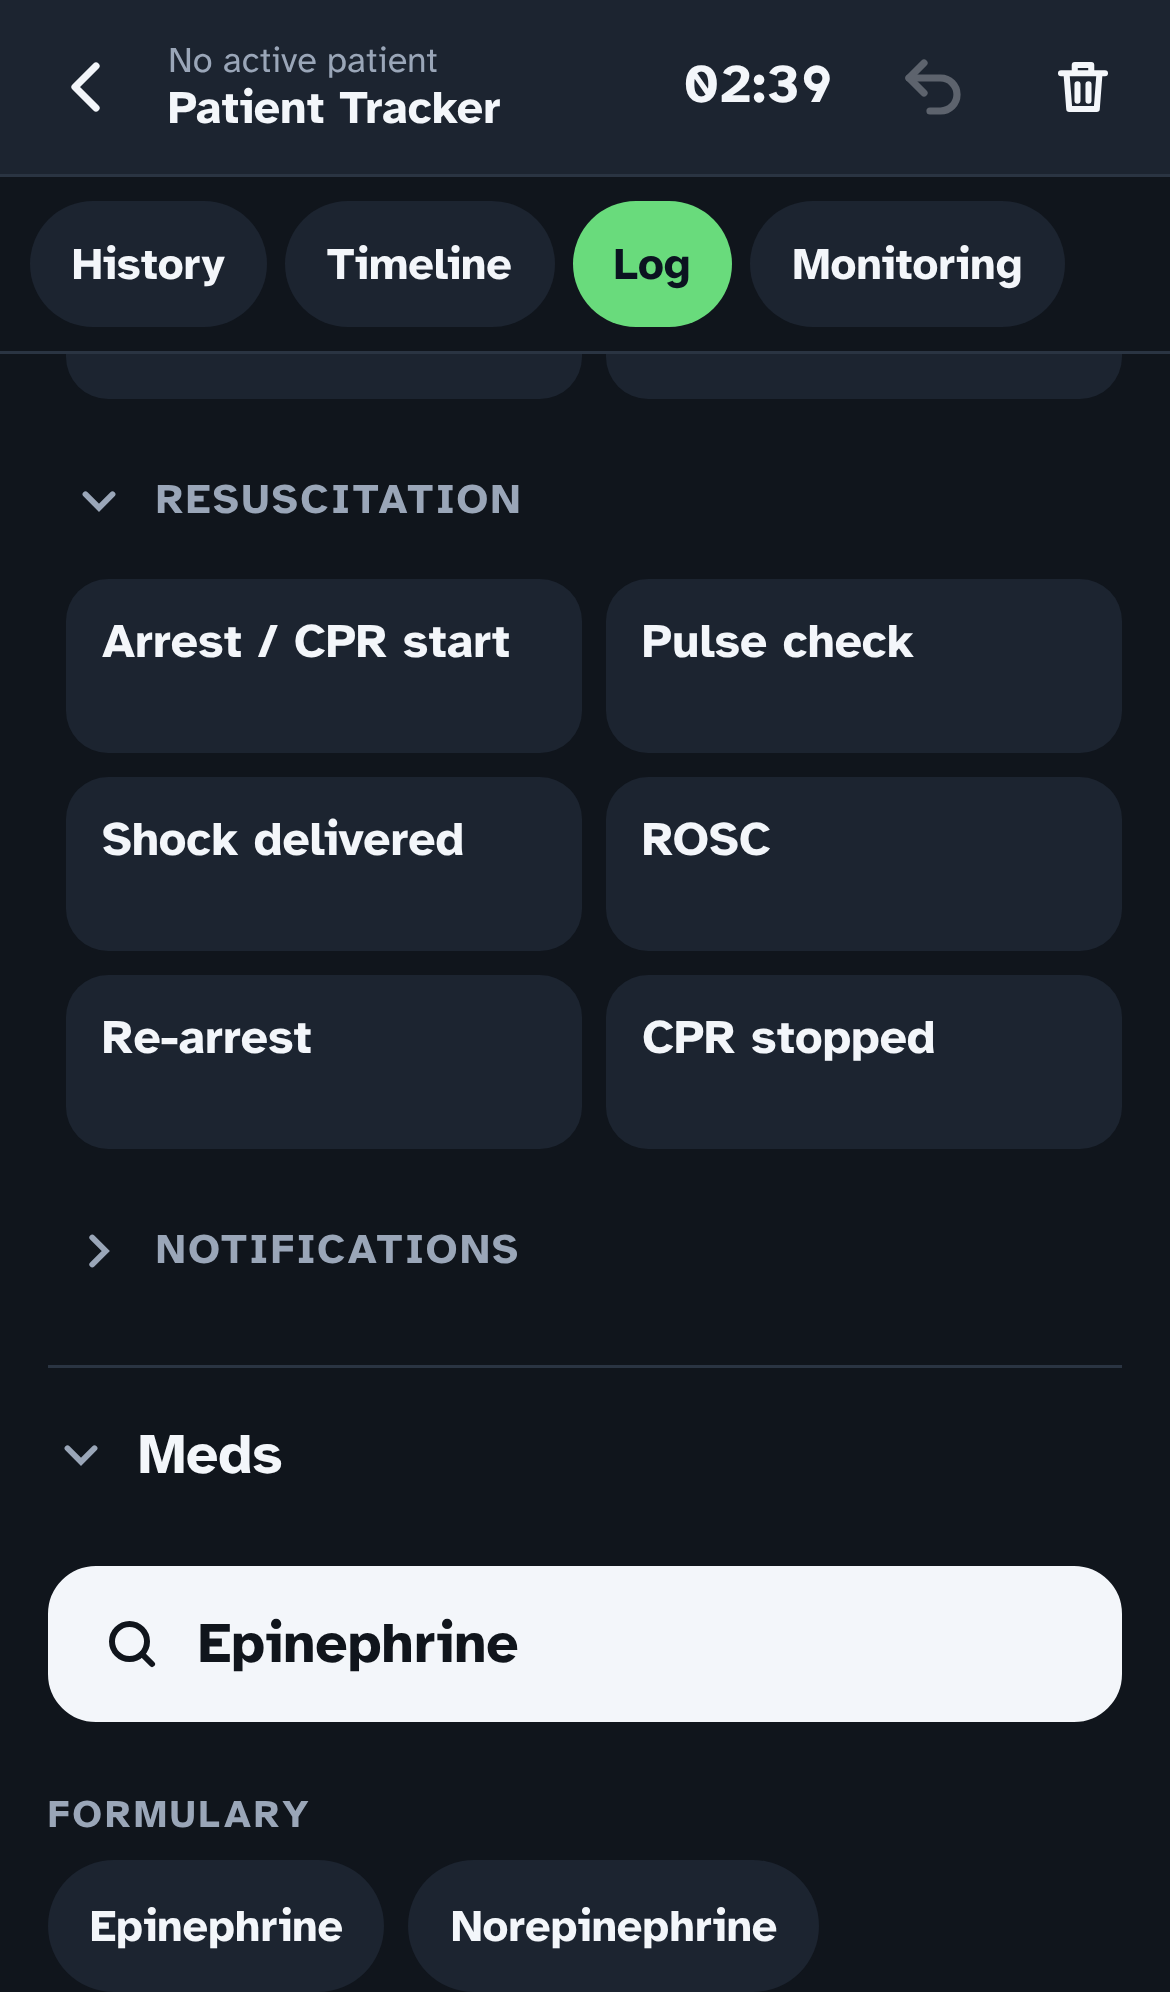
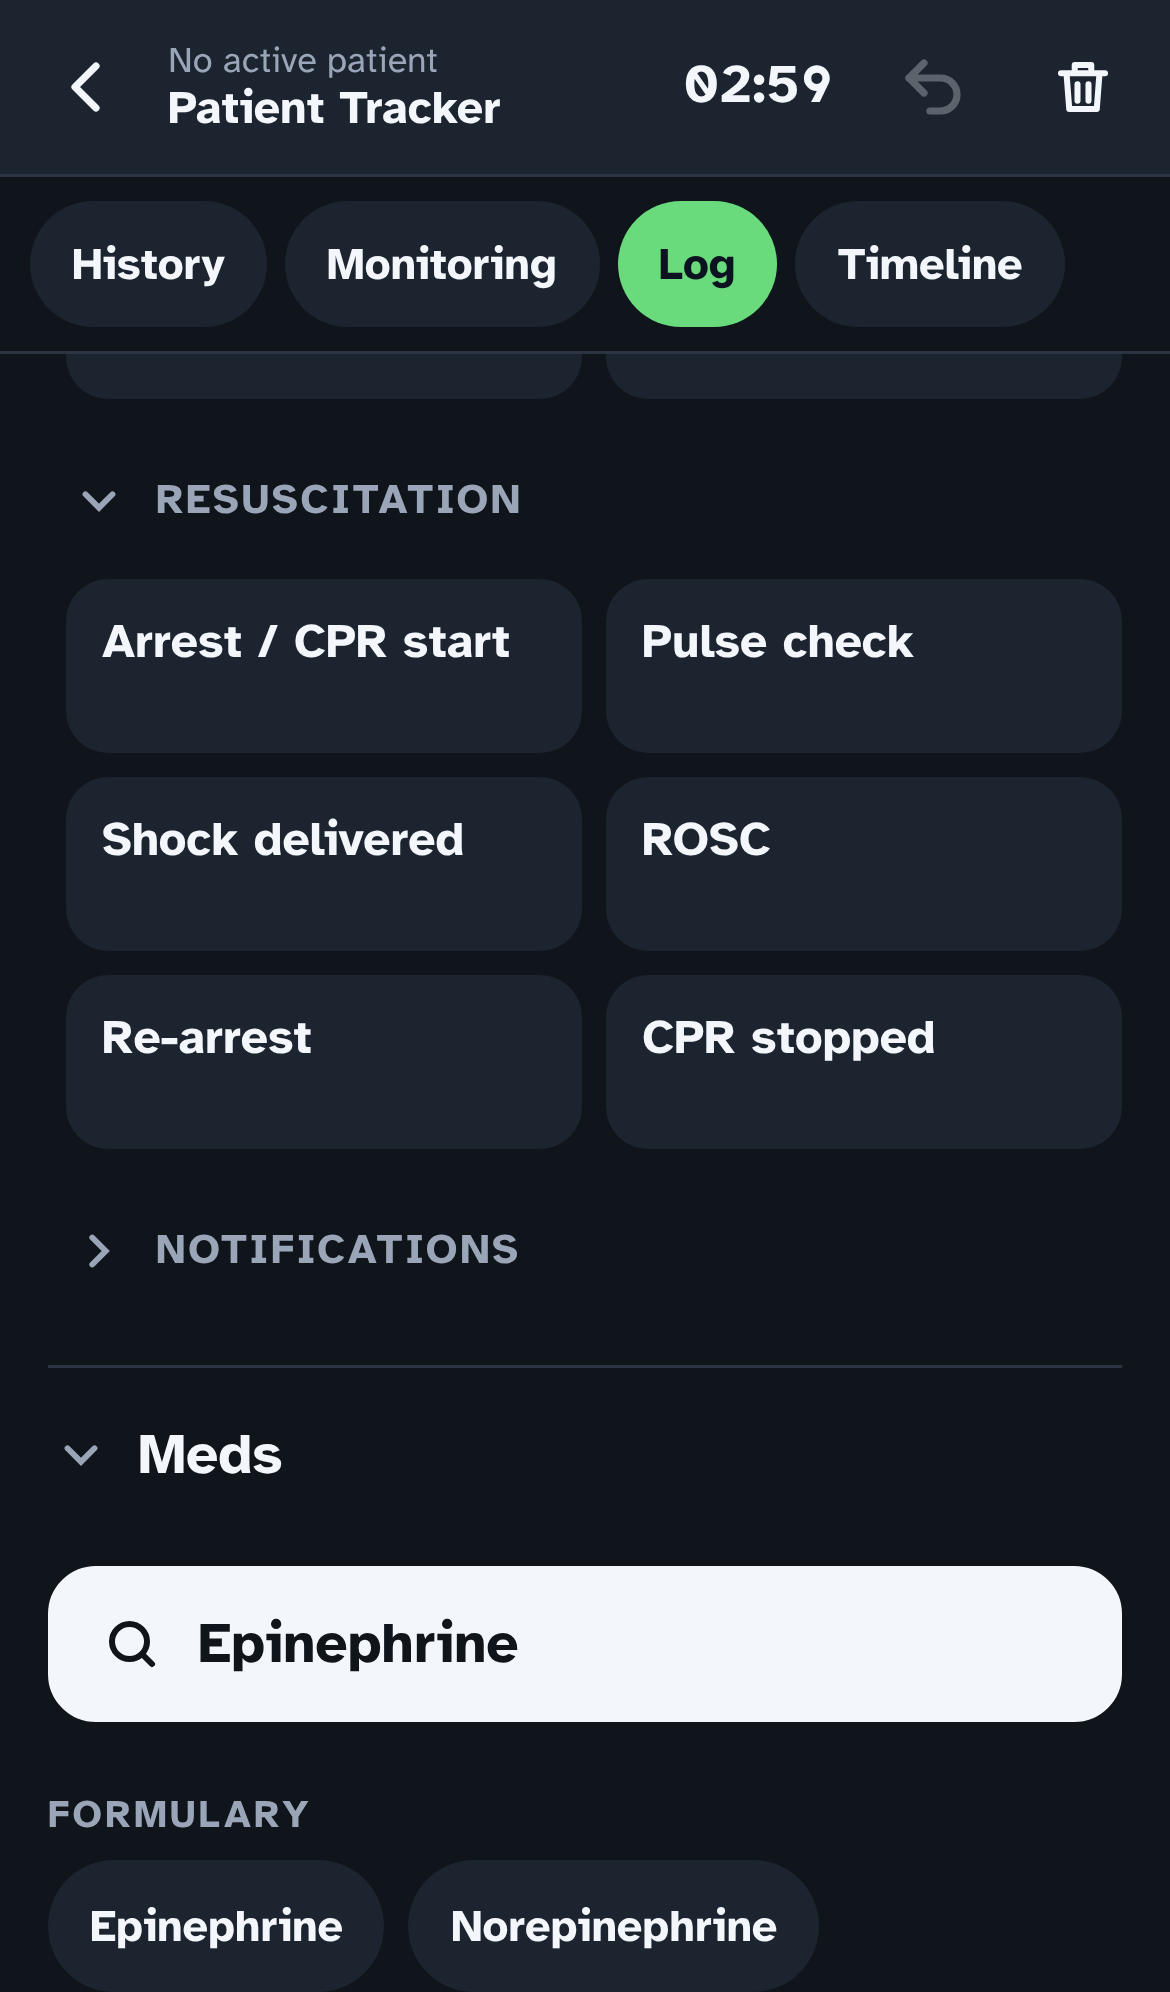
Patient Tracker: tab order History, Monitoring, Log, Timeline
Claude-Session: https://claude.ai/code/session_01VDjpSWKVy7ScyMufhaLY6d

Changed region(s): [[0.2769, 0.0934, 0.8923, 0.1867], [0.6462, 0.0311, 0.6769, 0.0622]]

diff --git a/sw.js b/sw.js
@@ -1,4 +1,4 @@
-const CACHE = 'protocols-2026.09.15-c438eb93'; // set by tools/release.py
+const CACHE = 'protocols-2026.09.15-463c44a6'; // set by tools/release.py
 const FILES = ['./', 'index.html', 'data.json', 'pdf.min.js', 'pdf.worker.min.js', 'manifest.webmanifest', 'changes.json', 'peds.json', 'comms.json', 'calc.js', 'doses.js', 'tracker.js', 'fonts/atkinson-400.woff2', 'fonts/atkinson-700.woff2', 'icon.svg', 'icon-180.png', 'icon-512.png', 'guidelines.pdf'];
 self.addEventListener('install', e => {
   e.waitUntil(caches.open(CACHE).then(c => c.addAll(FILES)).then(() => self.skipWaiting()));

diff --git a/tracker.js b/tracker.js
@@ -324,7 +324,7 @@ document.body.appendChild(root);
 const q = s => root.querySelector(s);
 
 // ---------- render ----------
-const TABS = [['hx', 'History'], ['timeline', 'Timeline'], ['log', 'Log'], ['mon', 'Monitoring']];
+const TABS = [['hx', 'History'], ['mon', 'Monitoring'], ['log', 'Log'], ['timeline', 'Timeline']];
 function render(){
   if (!open) return;
   q('#tkTabs').innerHTML = TABS.map(([k, l]) => `<button data-tab="${k}" class="${tab === k ? 'on' : ''}">${l}${k === 'timeline' && P.entries.length ? `<span class="n">${P.entries.length}</span>` : ''}</button>`).join('');
